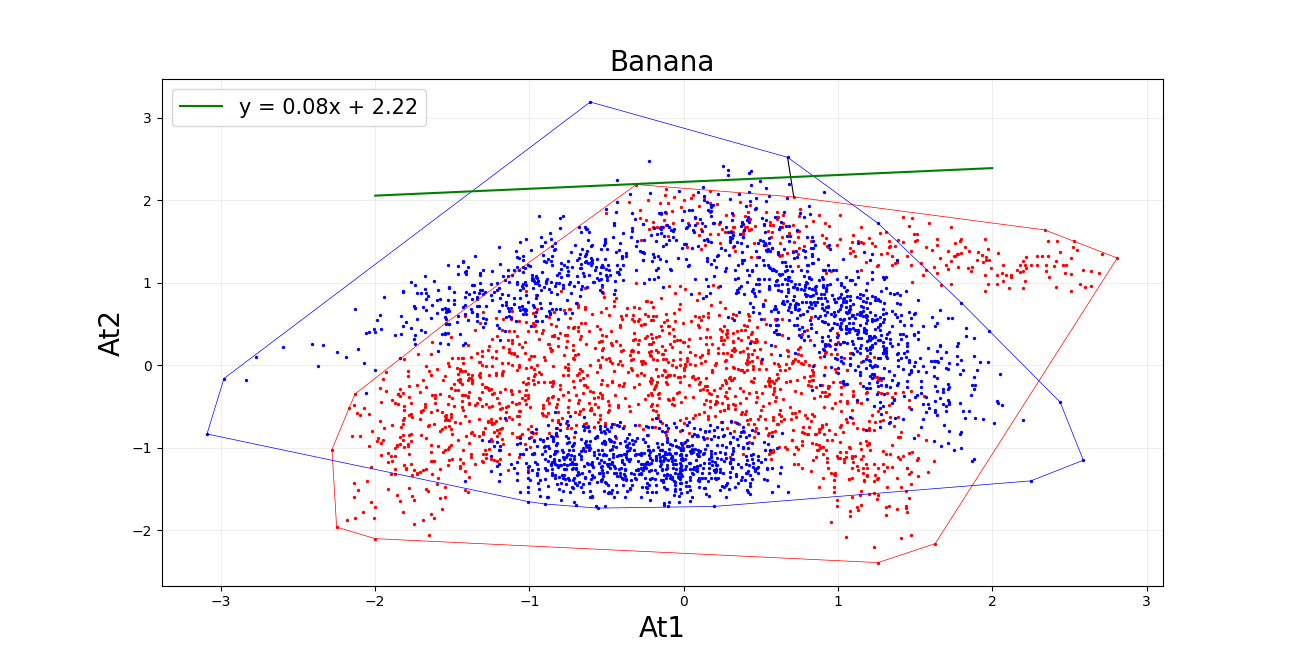
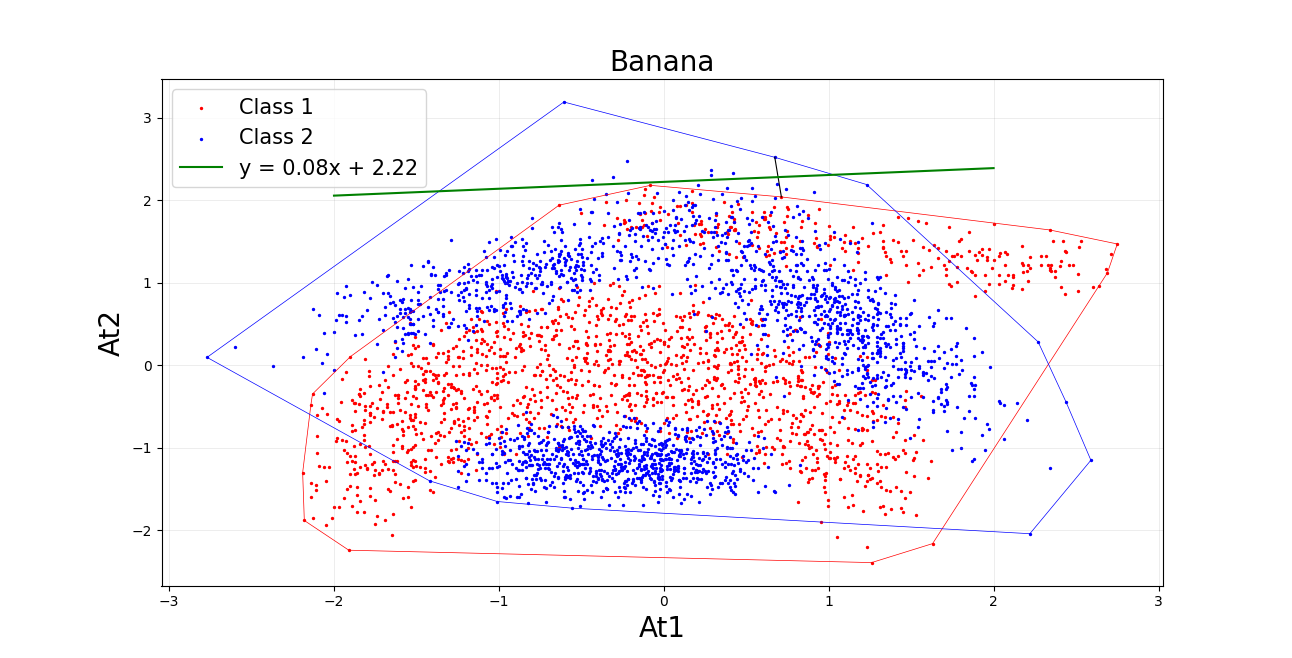
imgs

diff --git a/src/data_import/magic.py b/src/data_import/magic.py
@@ -1,0 +1,128 @@
+from typing import cast
+
+import matplotlib.pyplot as plt
+import numpy as np
+import pandas as pd
+
+from src.convex_hull.convex_hull import ConvexHull
+from src.line_sweep.line_sweep import LineSweep
+from src.point.point import Point
+from src.segment.segment import Segment
+from src.utils import get_perpendicular_segment, min_dist_between_convex_hulls_segment
+
+def check_magic(file):
+
+    col_names_magic = ["FLength", "FWidth", "FSize", "FConc", "FConc1", "FAsym", "FM3Long", "FM3Trans", "FAlpha", "FDist", "Class"]
+    magic = pd.read_csv(file, names=col_names_magic)
+
+    magicclass1=magic[magic['Class']=='g']
+    magicclass2=magic[magic['Class']=='h']
+    magicclass1=magicclass1[['FLength','FWidth']]
+    magicclass2=magicclass2[['FLength','FWidth']]
+
+    magicclass1_train=magicclass1.sample(frac=0.7)
+    magicclass1_test=magicclass1.drop(magicclass1_train.index)
+    magicclass1_train.reset_index(drop=True,inplace=True)
+    magicclass1_test.reset_index(drop=True,inplace=True)
+
+    magicclass2_train=magicclass2.sample(frac=0.7)
+    magicclass2_test=magicclass2.drop(magicclass2_train.index)
+    magicclass2_train.reset_index(drop=True,inplace=True)
+    magicclass2_test.reset_index(drop=True,inplace=True)
+
+    list_magicclass1_train=[]
+    for x in range(magicclass1_train['FLength'].size):
+        temp_point=Point(magicclass1_train['FLength'][x],magicclass1_train['FWidth'][x])
+        list_magicclass1_train.insert(1,temp_point)
+
+    list_magicclass1_test=[]
+    for x in range(magicclass1_test['FLength'].size):
+        temp_point=Point(magicclass1_test['FLength'][x],magicclass1_test['FWidth'][x])
+        list_magicclass1_test.insert(1,temp_point)
+
+    list_magicclass2_train=[]
+    for x in range(magicclass2_train['FLength'].size):
+        temp_point=Point(magicclass2_train['FLength'][x],magicclass2_train['FWidth'][x])
+        list_magicclass2_train.insert(1,temp_point)
+
+    list_magicclass2_test=[]
+    for x in range(magicclass2_test['FLength'].size):
+        temp_point=Point(magicclass2_test['FLength'][x],magicclass2_test['FWidth'][x])
+        list_magicclass2_test.insert(1,temp_point)
+
+
+    sop1 = list_magicclass1_train
+    sop2 = list_magicclass2_train
+    ch1 = ConvexHull(sop1, alg="graham_scan")
+    ch2 = ConvexHull(sop2, alg="graham_scan")
+    min_dist_segment = min_dist_between_convex_hulls_segment(ch1, ch2)
+
+    _, ax = plt.subplots(figsize=(100, 100))
+    ax = cast(plt.Axes, ax)
+
+    ax.scatter(
+        [point.x for point in ch1.set_of_points],
+        [point.y for point in ch1.set_of_points],
+        c=["red"],
+        s=4,
+        label="Class g"
+    )
+    ax.grid(which="both", color="grey", linewidth=0.5, linestyle="-", alpha=0.2)
+
+    for edge in ch1.convex_hull:
+        plt.plot([edge.p0.x, edge.p1.x], [edge.p0.y, edge.p1.y], "red", linewidth=0.5)
+
+    ax.scatter(
+        [point.x for point in ch2.set_of_points],
+        [point.y for point in ch2.set_of_points],
+        c=["blue"],
+        s=4,
+        label="Class h"
+    )
+    for edge in ch2.convex_hull:
+        plt.plot([edge.p0.x, edge.p1.x], [edge.p0.y, edge.p1.y], "blue", linewidth=0.5)
+
+    plt.plot(
+        [min_dist_segment.p0.x, min_dist_segment.p1.x],
+        [min_dist_segment.p0.y, min_dist_segment.p1.y],
+        "black",
+        linewidth=0.8
+    )
+
+    slope, b, midpoint = get_perpendicular_segment(min_dist_segment)
+    x = np.linspace(0, 300, 100)
+    y = slope * x + b
+    plt.title("Magic", fontsize=20)
+    plt.xlabel("FLength", fontsize=20)
+    plt.xticks(fontsize=10)
+    plt.ylabel("FWidth", fontsize=20)
+    plt.yticks(fontsize=10)
+    plt.plot(x, y, color="green", label=f"y = {round(slope, 2)}x + {round(b)}")
+    plt.legend(loc="upper left", fontsize=15)
+    plt.show()
+
+    # checa se os polígonos se intersectam
+    line_sweep = LineSweep()
+
+    linear_separable = not line_sweep.do_polygons_intersect(
+        ch1.convex_hull, ch2.convex_hull
+    )
+
+    if not linear_separable:
+        print("Os dados não são linearmente separáveis")
+        return
+
+    aux_segment = Segment(midpoint, Point(midpoint.x + 1, (midpoint.x + 1) * slope + b))
+
+    class_1_seg = Segment(midpoint, list_magicclass1_train[0])
+
+    class_1_side = class_1_seg.is_counter_clockwise(aux_segment)
+    class_2_side = not class_1_side
+
+    c = 0
+    for point in list_magicclass2_test:
+        new_seg = Segment(midpoint, point)
+        if new_seg.is_counter_clockwise(aux_segment) == class_2_side:
+            c += 1
+        else:
+            continue

diff --git a/src/data_import/banana.py b/src/data_import/banana.py
@@ -55,7 +55,6 @@ def check_banana(file):
     ch1 = ConvexHull(sop1, alg="graham_scan")
     ch2 = ConvexHull(sop2, alg="graham_scan")
     min_dist_segment = min_dist_between_convex_hulls_segment(ch1, ch2)
-    print(min_dist_segment)
 
     _, ax = plt.subplots(figsize=(100, 100))
     ax = cast(plt.Axes, ax)
@@ -65,6 +64,7 @@ def check_banana(file):
         [point.y for point in ch1.set_of_points],
         c=["red"],
         s=2,
+        label="Class 1"
     )
     ax.grid(which="both", color="grey", linewidth=0.5, linestyle="-", alpha=0.2)
     for edge in ch1.convex_hull:
@@ -75,6 +75,7 @@ def check_banana(file):
         [point.y for point in ch2.set_of_points],
         c=["blue"],
         s=2,
+        label="Class 2"
     )
     for edge in ch2.convex_hull:
         plt.plot([edge.p0.x, edge.p1.x], [edge.p0.y, edge.p1.y], "blue", linewidth=0.5)

diff --git a/src/data_import/iris.py b/src/data_import/iris.py
@@ -73,6 +73,7 @@ def check_iris(file):
         [point.y for point in ch1.set_of_points],
         c=["red"],
         s=2,
+        label="Class Iris-setosa"
     )
     ax.grid(which="both", color="grey", linewidth=0.5, linestyle="-", alpha=0.2)
     for edge in ch1.convex_hull:
@@ -83,6 +84,7 @@ def check_iris(file):
         [point.y for point in ch2.set_of_points],
         c=["blue"],
         s=2,
+        label="Class not Iris-setosa"
     )
     for edge in ch2.convex_hull:
         plt.plot([edge.p0.x, edge.p1.x], [edge.p0.y, edge.p1.y], "blue", linewidth=0.5)

diff --git a/src/app.py b/src/app.py
@@ -1,7 +1,8 @@
 import argparse
 
-from src.data_import.iris import check_iris
+from src.data_import import check_iris
 from src.data_import import check_banana
+from src.data_import import check_magic
 
 
 def run() -> None:

diff --git a/src/data_import/__init__.py b/src/data_import/__init__.py
@@ -1,4 +1,5 @@
 from .iris import check_iris
 from .banana import check_banana
+from .magic import check_magic
 
 __all__ = ["check_iris"]
